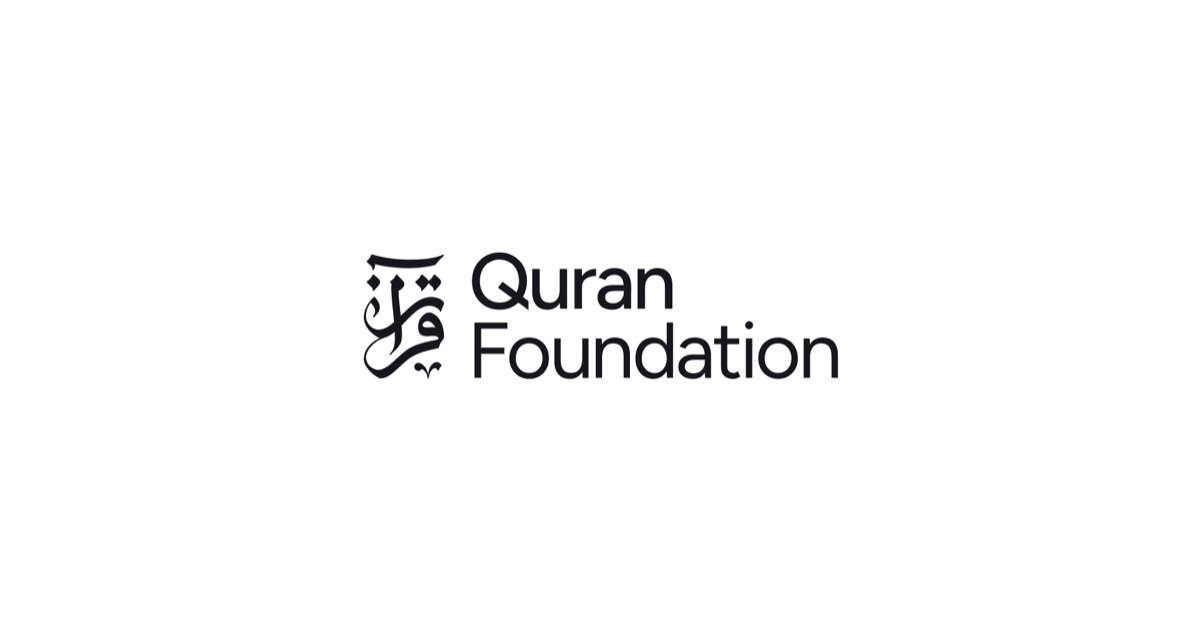
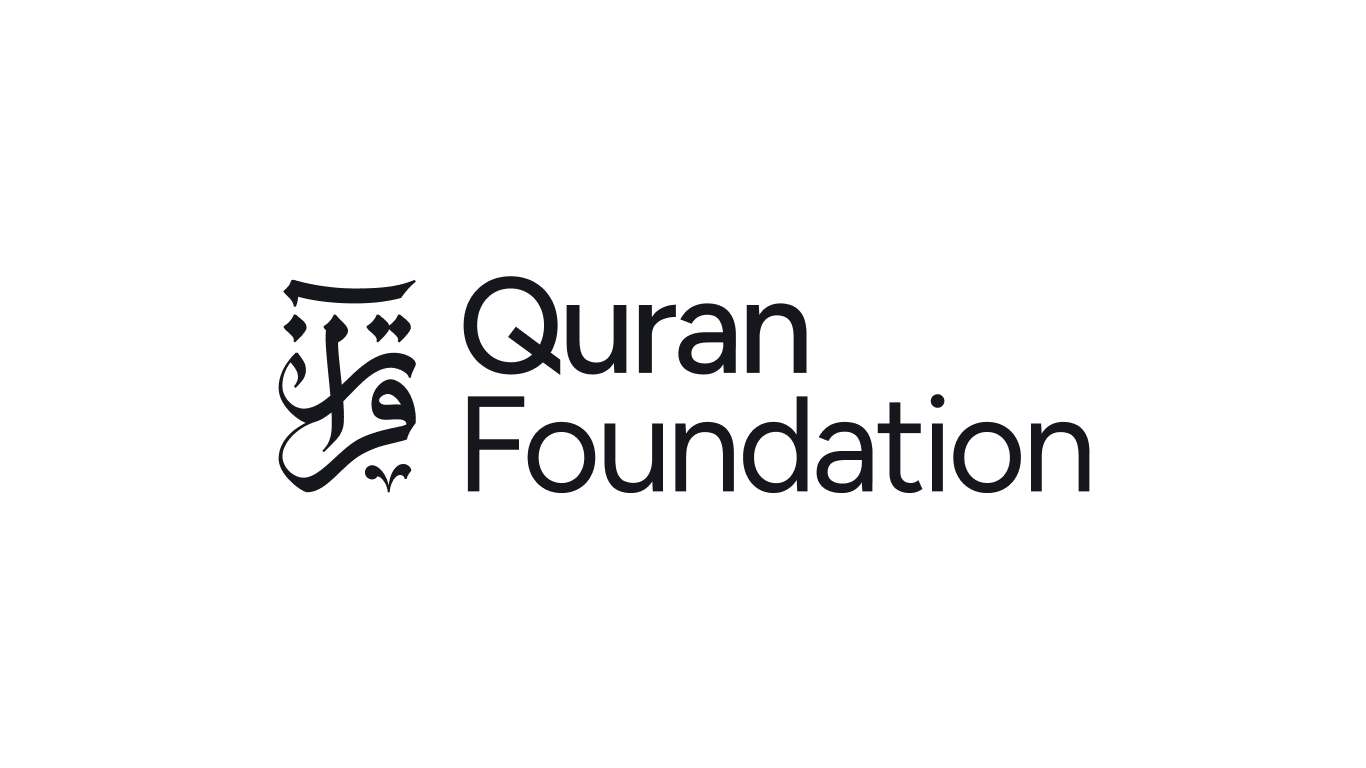
feat(og): update approved preview images

Changed region(s): [[0.185, 0.3619, 0.8017, 0.6635]]

diff --git a/tests/qdc-branding.spec.ts b/tests/qdc-branding.spec.ts
@@ -3,53 +3,58 @@ import crypto from 'crypto';
 import fs from 'fs';
 import path from 'path';
 
+const LOCALIZED_HOME_SHA256: Record<string, string> = {
[13 lines of base64/hex data omitted]
+};
+
 const PREMADE_SHA256: Record<string, string> = {
+  ...LOCALIZED_HOME_SHA256,
[13 lines of base64/hex data omitted]
   'og_quran_reader_study_mode_hadith.png':
[2 lines of base64/hex data omitted]
   'og_quran_reader_study_mode_layers.png':
[2 lines of base64/hex data omitted]
   'og_quran_reader_study_mode_lessons.png':
[2 lines of base64/hex data omitted]
   'og_quran_reader_study_mode_qiraat.png':
[2 lines of base64/hex data omitted]
   'og_quran_reader_study_mode_reflections.png':
[2 lines of base64/hex data omitted]
   'og_quran_reader_study_mode_related_verses.png':
[2 lines of base64/hex data omitted]
   'og_quran_reader_study_mode_tafsir.png':
[5 lines of base64/hex data omitted]
 };
 
 const MAX_PREMADE_TOTAL_BYTES = 3_200_000;
[2 lines of base64/hex data omitted]
-const LEGACY_HOME_LOCALES = [
-  'ar',
-  'bn',
-  'en',
-  'es',
-  'fa',
-  'fr',
-  'id',
-  'ms',
-  'nl',
-  'sw',
-  'tr',
-  'ur',
-  'vi',
-];
+const BRAND_SHA256: Record<string, string> = {
[3 lines of base64/hex data omitted]
+};
 
 test('generated Open Graph images use the official QDC horizontal logo', () => {
   const logoSource = fs.readFileSync(path.join(process.cwd(), 'src/components/Logo.tsx'), 'utf8');
@@ -69,42 +74,31 @@ test('all reviewed premade Open Graph images retain their approved QDC branding'
   });
 });
 
-test('homepage locales resolve to one centered 1200 by 630 QDC logo image', () => {
-  const sharedImagePath = path.join(process.cwd(), 'public/premade/og-quran-com.png');
+test('homepage locales resolve to their approved localized images', () => {
   const routeSource = fs.readFileSync(
     path.join(process.cwd(), 'src/pages/api/og/index.tsx'),
     'utf8',
   );
 
-  expect(fs.existsSync(sharedImagePath), 'shared homepage image').toBe(true);
+  expect(routeSource).toContain('searchParams');
+  Object.entries(LOCALIZED_HOME_SHA256).forEach(([fileName, expectedHash]) => {
+    const image = fs.readFileSync(path.join(process.cwd(), 'public/premade', fileName));
 
-  const image = fs.readFileSync(sharedImagePath);
-  expect(image.readUInt32BE(16), 'image width').toBe(1200);
-  expect(image.readUInt32BE(20), 'image height').toBe(630);
-  expect(crypto.createHash('sha256').update(image).digest('hex'), 'approved centered layout').toBe(
-    SHARED_HOME_SHA256,
-  );
-  expect(image.byteLength, 'shared homepage image payload').toBeLessThanOrEqual(20_000);
-
-  expect(routeSource).toContain('og-quran-com.png');
-  expect(routeSource).not.toContain('searchParams');
-  LEGACY_HOME_LOCALES.forEach((locale) => {
-    expect(routeSource, locale).not.toContain(`og-${locale}.png`);
-    expect(
-      fs.existsSync(path.join(process.cwd(), 'public/premade', `og-${locale}.png`)),
-      locale,
-    ).toBe(false);
+    expect(image.readUInt32BE(16), `${fileName} width`).toBe(1366);
+    expect(image.readUInt32BE(20), `${fileName} height`).toBe(768);
+    expect(crypto.createHash('sha256').update(image).digest('hex'), fileName).toBe(expectedHash);
+    expect(routeSource).toContain(fileName);
   });
 });
 
-test('Quran Foundation uses its approved 1200 by 630 Open Graph image', () => {
-  const image = fs.readFileSync(
-    path.join(process.cwd(), 'public/premade/og-quran-foundation.png'),
-  );
+test('brand defaults use their approved 1366 by 768 Open Graph images', () => {
+  Object.entries(BRAND_SHA256).forEach(([fileName, expectedHash]) => {
+    const image = fs.readFileSync(path.join(process.cwd(), 'public/premade', fileName));
 
-  expect(image.readUInt32BE(16), 'image width').toBe(1200);
-  expect(image.readUInt32BE(20), 'image height').toBe(630);
-  expect(crypto.createHash('sha256').update(image).digest('hex')).toBe(QURAN_FOUNDATION_SHA256);
+    expect(image.readUInt32BE(16), `${fileName} width`).toBe(1366);
+    expect(image.readUInt32BE(20), `${fileName} height`).toBe(768);
+    expect(crypto.createHash('sha256').update(image).digest('hex'), fileName).toBe(expectedHash);
+  });
 });
 
 test('premade Open Graph images stay within their existing payload budget', () => {

diff --git a/src/pages/api/og/index.tsx b/src/pages/api/og/index.tsx
@@ -1,3 +1,4 @@
+import { NextRequest } from "next/server";
 import type { PageConfig } from "next/types";
 import { getEdgeBaseUrl } from '@/lib/edge';
 
@@ -5,7 +6,26 @@ export const config: PageConfig = {
     runtime: "edge",
 };
 
-export default async function handler() {
-    const assetUrl = new URL('/premade/og-quran-com.png', getEdgeBaseUrl());
+const LANG_TO_FILE: Record<string, string> = {
+    ar: "og-ar.png",
+    bn: "og-bn.png",
+    en: "og-en.png",
+    es: "og-es.png",
+    fa: "og-fa.png",
+    fr: "og-fr.png",
+    id: "og-id.png",
+    ms: "og-ms.png",
+    nl: "og-nl.png",
+    sw: "og-sw.png",
+    tr: "og-tr.png",
+    ur: "og-ur.png",
+    vi: "og-vi.png",
+};
+
+export default async function handler(req: NextRequest) {
+    const lang = req.nextUrl.searchParams.get("lang")?.toLowerCase() || "en";
+    const file = LANG_TO_FILE[lang] || LANG_TO_FILE.en;
+
+    const assetUrl = new URL(`/premade/${file}`, getEdgeBaseUrl());
     return fetch(assetUrl);
 }

diff --git a/tests/og-images.spec.ts b/tests/og-images.spec.ts
@@ -14,6 +14,7 @@ const LANGUAGES = [
   "sw",
   "tr",
   "ur",
+  "vi",
 ];
 
 // All static OG pages (endpoints without dynamic parameters)

diff --git a/README.md b/README.md
@@ -132,4 +132,4 @@ BASE_URL=https://og.qurancdn.com yarn test
 ### Test Coverage
 
 - **OG Image Generation**: Validates that all endpoints return valid PNG images
-- **Visual Regression**: Compares generated images against baseline snapshots for all 12 supported languages (ar, bn, en, es, fa, fr, id, ms, nl, sw, tr, ur)
+- **Visual Regression**: Compares generated images against baseline snapshots for all 13 supported languages (ar, bn, en, es, fa, fr, id, ms, nl, sw, tr, ur, vi)
